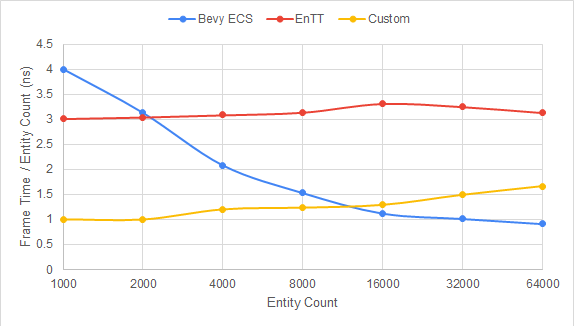
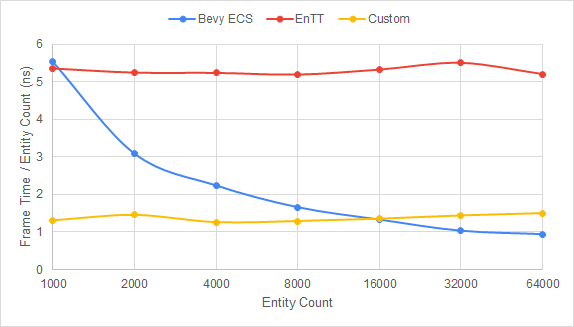
paper - change results to clang benched

diff --git a/papers/IEEE/main.tex b/papers/IEEE/main.tex
@@ -279,7 +279,7 @@ T\kern-.1667em\lower.7ex\hbox{E}\kern-.125emX}}
 
     The custom implementation consistently exhibited the lowest frame times up to 8,000 entities, after which Bevy took over.
     The specialization and compiler optimizations used by the custom implementation allowed it to
-    perform well when compared to EnTT.
+    perform well when compared to EnTT\@.
 
     \begin{figure}
         \centerline{\includegraphics[width=0.4\textwidth]{chart1}}
@@ -290,39 +290,39 @@ T\kern-.1667em\lower.7ex\hbox{E}\kern-.125emX}}
     \begin{table}[htbp]
         \caption{Benchmark~\ref{subsec:entity-iteration} – Statistics}
         \begin{center}
-            \begin{tabular}{|c|c|c|c|c|c|}
+            \begin{tabular}{|c|c|c|c|c|c|c|}
                 \hline
-                \textbf{Entity} & \textbf{ECS} & \multicolumn{4}{|c|}{\textbf{Frame Time (microseconds)}} \\
-                \cline{3-6}
-                \textbf{Count} & \textbf{Framework} & \textbf{Mean} & \textbf{\textit{Std.Dev.}} & \textbf{\textit{Min}} & \textbf{\textit{Max}} \\
+                \textbf{Entity} & \textbf{ECS} & \multicolumn{5}{|c|}{\textbf{Frame Time (microseconds)}} \\
+                \cline{3-7}
+                \textbf{Count} & \textbf{Framework} & \textbf{Mean} & \textbf{Median} & \textbf{Std.Dev.} & \textbf{Min} & \textbf{Max} \\
                 \hline
-                1000           & Bevy               & 3.994         & 1.547                      & 2                     & 23                    \\
-                & EnTT               & 3.013         & 0.113                      & 3                     & 4                     \\
-                & Custom             & 1.009         & 0.130                      & 1                     & 4                     \\
+                1000 & Bevy & 5.527 & 5.950 & 1.393 & 2.300 & 15.80 \\
+                & EnTT & 5.352 & 5.300 & 1.544 & 5.100 & 6.700 \\
+                & Custom & 1.308 & 1.300 & 0.049 & 1.200 & 2.200 \\
                 \hline
-                2000           & Bevy               & 6.254         & 1.514                      & 3                     & 17                    \\
-                & EnTT               & 6.087         & 0.577                      & 6                     & 16                    \\
-                & Custom             & 2.014         & 0.117                      & 2                     & 3                     \\
+                2000 & Bevy & 6.168 & 6.600 & 1.480 & 3.000 & 14.40 \\
+                & EnTT & 10.48 & 10.40 & 0.708 & 10.10 & 25.40 \\
+                & Custom & 2.914 & 2.700 & 0.493 & 2.400 & 8.200 \\
                 \hline
-                4000           & Bevy               & 8.333         & 1.041                      & 5                     & 17                    \\
-                & EnTT               & 12.352        & 3.057                      & 12                    & 24                    \\
-                & Custom             & 4.823         & 1.012                      & 4                     & 27                    \\
+                4000 & Bevy & 8.942 & 9.000 & 0.949 & 6.100 & 15.50 \\
+                & EnTT & 20.93 & 21.00 & 0.522 & 20.30 & 27.90 \\
+                & Custom & 5.029 & 5.000 & 0.265 & 4.700 & 6.600 \\
                 \hline
-                8000           & Bevy               & 12.264        & 2.136                      & 9                     & 38                    \\
-                & EnTT               & 25.120        & 1.471                      & 23                    & 54                    \\
-                & Custom             & 9.912         & 1.266                      & 9                     & 28                    \\
+                8000 & Bevy & 13.26 & 13.50 & 1.571 & 10.00 & 34.20 \\
+                & EnTT & 41.49 & 41.60 & 2.100 & 39.80 & 71.40 \\
+                & Custom & 10.30 & 10.00 & 0.976 & 9.800 & 20.30 \\
                 \hline
-                16000          & Bevy               & 18.002        & 2.766                      & 14                    & 59                    \\
-                & EnTT               & 53.033        & 11.039                     & 49                    & 225                   \\
-                & Custom             & 20.695        & 2.946                      & 19                    & 55                    \\
+                16000 & Bevy & 21.22 & 21.30 & 4.244 & 16.20 & 126.4 \\
+                & EnTT & 85.15 & 84.40 & 0.398 & 80.80 & 146.3 \\
+                & Custom & 21.64 & 20.60 & 3.020 & 19.80 & 42.40 \\
                 \hline
-                32000          & Bevy               & 32.512        & 2.912                      & 26                    & 44                    \\
-                & EnTT               & 104.087       & 9.449                      & 100                   & 220                   \\
-                & Custom             & 47.701        & 6.843                      & 43                    & 87                    \\
+                32000 & Bevy & 32.98 & 31.80 & 7.903 & 27.70 & 256.2 \\
+                & EnTT & 176.2 & 168.8 & 22.31 & 161.0 & 293.3 \\
+                & Custom & 46.13 & 45.20 & 4.258 & 43.70 & 81.50 \\
                 \hline
-                64000          & Bevy               & 58.591        & 4.719                      & 51                    & 88                    \\
-                & EnTT               & 200.677       & 23.302                     & 184                   & 480                   \\
-                & Custom             & 106.292       & 13.066                     & 94                    & 187                   \\
+                64000 & Bevy & 59.88 & 59.05 & 16.11 & 44.70 & 297.1 \\
+                & EnTT & 333.1 & 322.4 & 43.15 & 308.7 & 1178 \\
+                & Custom & 96.29 & 93.00 & 11.68 & 90.40 & 336.6 \\
                 \hline
             \end{tabular}
         \end{center}\label{tab:results-benchmark-1}
@@ -347,44 +347,53 @@ T\kern-.1667em\lower.7ex\hbox{E}\kern-.125emX}}
     \begin{table}[htbp]
         \caption{Benchmark~\ref{subsec:sparse-access} – Statistics}
         \begin{center}
-            \begin{tabular}{|c|c|c|c|c|c|}
+            \begin{tabular}{|c|c|c|c|c|c|c|}
                 \hline
-                \textbf{Sparse} & \textbf{ECS} & \multicolumn{4}{|c|}{\textbf{Frame Time (microseconds)}} \\
-                \cline{3-6}
-                \textbf{Ratio} & \textbf{Framework} & \textbf{Mean} & \textbf{\textit{Std.Dev.}} & \textbf{\textit{Min}} & \textbf{\textit{Max}} \\
+                \textbf{Sparse} & \textbf{ECS} & \multicolumn{5}{|c|}{\textbf{Frame Time (microseconds)}} \\
+                \cline{3-7}
+                \textbf{Ratio} & \textbf{Framework} & \textbf{Mean} & \textbf{Median} & \textbf{Std.Dev.} & \textbf{Min} & \textbf{Max} \\
                 \hline
-                0.90           & Bevy               & 28.845        & 3.830                      & 24                    & 55                    \\
-                & EnTT               & 61.977        & 8.337                      & 58                    & 253                   \\
-                & Custom             & 32.293        & 6.049                      & 29                    & 130                   \\
+                1.00 & Bevy & 34.27 & 36.30 & 4.570 & 27.80 & 60.90 \\
+                & EnTT & 53.27 & 52.70 & 2.811 & 51.30 & 93.40 \\
+                & Custom & 34.56 & 32.80 & 4.845 & 32.50 & 86.70 \\
                 \hline
-                0.75           & Bevy               & 26.963        & 2.453                      & 21                    & 37                    \\
-                & EnTT               & 50.910        & 9.785                      & 47                    & 255                   \\
-                & Custom             & 29.378        & 5.894                      & 26                    & 76                    \\
+                0.90 & Bevy & 31.65 & 33.20 & 3.436 & 25.30 & 51.10 \\
+                & EnTT & 70.31 & 69.80 & 3.157 & 68.10 & 114.9 \\
+                & Custom & 36.56 & 33.10 & 8.706 & 30.90 & 96.30 \\
                 \hline
-                0.50           & Bevy               & 19.676        & 2.164                      & 15                    & 33                    \\
-                & EnTT               & 34.422        & 5.370                      & 32                    & 118                   \\
-                & Custom             & 21.970        & 4.134                      & 20                    & 79                    \\
+                0.75 & Bevy & 26.59 & 28.40 & 3.024 & 21.70 & 46.10 \\
+                & EnTT & 58.77 & 58.40 & 2.036 & 57.60 & 98.90 \\
+                & Custom & 29.03 & 28.30 & 3.262 & 26.70 & 74.10 \\
                 \hline
-                0.40           & Bevy               & 16.914        & 1.967                      & 13                    & 31                    \\
-                & EnTT               & 26.063        & 1.767                      & 25                    & 53                    \\
-                & Custom             & 18.633        & 3.173                      & 17                    & 58                    \\
+                0.50 & Bevy & 20.37 & 21.30 & 1.950 & 16.30 & 33.80 \\
+                & EnTT & 41.08 & 39.90 & 8.495 & 37.50 & 225.9 \\
+                & Custom & 21.92 & 21.30 & 2.543 & 20.30 & 43.80 \\
                 \hline
-                0.30           & Bevy               & 13.631        & 1.741                      & 10                    & 33                    \\
-                & EnTT               & 20.087        & 1.079                      & 19                    & 35                    \\
-                & Custom             & 15.705        & 3.475                      & 14                    & 59                    \\
+                0.40 & Bevy & 17.86 & 18.20 & 1.950 & 16.30 & 33.80 \\
+                & EnTT & 33.29 & 32.90 & 2.107 & 31.60 & 69.30 \\
+                & Custom & 18.40 & 17.70 & 2.954 & 16.70 & 38.60 \\
                 \hline
-                0.20           & Bevy               & 11.244        & 1.597                      & 8                     & 27                    \\
-                & EnTT               & 13.517        & 3.530                      & 13                    & 69                    \\
-                & Custom             & 12.363        & 2.294                      & 11                    & 65                    \\
+                0.30 & Bevy & 14.16 & 15.00 & 2.490 & 11.10 & 51.00 \\
+                & EnTT & 29.18 & 24.80 & 8.725 & 23.00 & 99.20 \\
+                & Custom & 15.12 & 14.50 & 2.733 & 14.10 & 42.40 \\
                 \hline
-                0.10           & Bevy               & 8.211         & 1.489                      & 5                     & 28                    \\
-                & EnTT               & 7.032         & 0.441                      & 6                     & 13                    \\
-                & Custom             & 9.065         & 0.507                      & 9                     & 19                    \\
+                0.20 & Bevy & 11.81 & 11.20 & 2.198 & 7.900 & 35.20 \\
+                & EnTT & 16.49 & 16.40 & 0.721 & 15.90 & 31.40 \\
+                & Custom & 12.16 & 11.90 & 1.222 & 11.70 & 37.30 \\
                 \hline
-                0.05           & Bevy               & 4.977         & 1.353                      & 3                     & 25                    \\
-                & EnTT               & 3.004         & 0.063                      & 3                     & 4                     \\
-                & Custom             & 8.011         & 1.018                      & 7                     & 39                    \\
+                0.10 & Bevy & 8.214 & 7.700 & 2.955 & 4.200 & 41.40 \\
+                & EnTT & 8.909 & 8.800 & 0.694 & 8.400 & 15.90 \\
+                & Custom & 9.731 & 9.600 & 1.463 & 9.200 & 52.80 \\
                 \hline
+                0.05 & Bevy & 5.388 & 5.000 & 1.420 & 2.800 & 13.90 \\
+                & EnTT & 4.082 & 4.000 & 0.227 & 3.900 & 6.400 \\
+                & Custom & 8.176 & 8.100 & 0.396 & 7.900 & 15.80 \\
+                \hline
+                0.00 & Bevy & 3.579 & 3.500 & 0.828 & 1.400 & 8.500 \\
+                & EnTT & 0.020 & 0.000$^{a}$ & 0.040 & 0.000$^{a}$ & 0.100 \\
+                & Custom & 6.583 & 6.600 & 0.274 & 6.400 & 12.30 \\
+                \hline
+                \multicolumn{6}{l}{$^{\mathrm{a}}$Measured time less than used benchmark precision.}
             \end{tabular}
         \end{center}\label{tab:results-benchmark-2}
     \end{table}
@@ -404,41 +413,40 @@ T\kern-.1667em\lower.7ex\hbox{E}\kern-.125emX}}
     \begin{table}[htbp]
         \caption{Benchmark~\ref{subsec:entity-creation-and-destruction} – Statistics}
         \begin{center}
-            \begin{tabular}{|c|c|c|c|c|c|}
+            \begin{tabular}{|c|c|c|c|c|c|c|}
                 \hline
-                \textbf{Entity} & \textbf{ECS} & \multicolumn{4}{|c|}{\textbf{Frame Time (microseconds)}} \\
-                \cline{3-6}
-                \textbf{Rate} & \textbf{Framework} & \textbf{Mean} & \textbf{\textit{Std.Dev.}} & \textbf{\textit{Min}} & \textbf{\textit{Max}} \\
+                \textbf{Entity} & \textbf{ECS} & \multicolumn{5}{|c|}{\textbf{Frame Time (microseconds)}} \\
+                \cline{3-7}
+                \textbf{Rate} & \textbf{Framework} & \textbf{Mean} & \textbf{Median} & \textbf{Std.Dev.} & \textbf{Min} & \textbf{Max} \\
                 \hline
-                32            & Bevy               & 13.683        & 3.027                      & 8                     & 35                    \\
-                & EnTT               & 1.060         & 0.237                      & 1                     & 2                     \\
-                & Custom             & 0.921         & 0.273                      & 0$^{\mathrm{a}}$      & 6                     \\
+                32 & Bevy & 15.61 & 14.70 & 3.280 & 9.800 & 40.80 \\
+                & EnTT & 1.750 & 1.700 & 0.093 & 1.600 & 3.100 \\
+                & Custom & 0.949 & 0.900 & 0.178 & 0.800 & 6.200 \\
                 \hline
-                64            & Bevy               & 19.173        & 5.627                      & 14                    & 103                   \\
-                & EnTT               & 2.005         & 0.071                      & 2                     & 3                     \\
-                & Custom             & 1.032         & 0.243                      & 1                     & 3                     \\
+                64 & Bevy & 21.52 & 22.30 & 3.664 & 13.70 & 69.80 \\
+                & EnTT & 3.248 & 3.200 & 0.180 & 3.100 & 4.700 \\
+                & Custom & 1.608 & 1.600 & 0.079 & 1.500 & 2.900 \\
                 \hline
-                128           & Bevy               & 25.481        & 5.471                      & 19                    & 119                   \\
-                & EnTT               & 4.014         & 0.117                      & 4                     & 5                     \\
-                & Custom             & 3.014         & 0.209                      & 3                     & 9                     \\
+                128 & Bevy & 29.40 & 27.70 & 9.880 & 20.00 & 155.2 \\
+                & EnTT & 6.591 & 6.400 & 1.469 & 6.200 & 40.00 \\
+                & Custom & 2.848 & 2.800 & 0.143 & 2.700 & 5.800 \\
                 \hline
-                256           & Bevy               & 34.781        & 5.593                      & 29                    & 118                   \\
-                & EnTT               & 8.379         & 0.589                      & 8                     & 17                    \\
-                & Custom             & 6.046         & 0.283                      & 6                     & 11                    \\
+                256 & Bevy & 40.97 & 39.20 & 5.685 & 35.40 & 176.8 \\
+                & EnTT & 13.02 & 12.90 & 1.530 & 11.40 & 43.30 \\
+                & Custom & 5.452 & 5.400 & 0.176 & 5.200 & 6.900 \\
                 \hline
-                512           & Bevy               & 54.945        & 7.880                      & 49                    & 166                   \\
-                & EnTT               & 18.194        & 2.069                      & 17                    & 50                    \\
-                & Custom             & 12.081        & 0.610                      & 12                    & 21                    \\
+                512 & Bevy & 66.21 & 62.50 & 7.548 & 59.50 & 125.3 \\
+                & EnTT & 25.79 & 25.60 & 0.762 & 24.90 & 34.90 \\
+                & Custom & 10.81 & 10.60 & 1.308 & 10.30 & 28.70 \\
                 \hline
-                1024          & Bevy               & 93.558        & 10.512                     & 84                    & 285                   \\
-                & EnTT               & 37.315        & 4.249                      & 35                    & 88                    \\
-                & Custom             & 24.181        & 3.256                      & 23                    & 69                    \\
+                1024 & Bevy & 114.1 & 110.3 & 9.538 & 103.8 & 194.1 \\
+                & EnTT & 55.58 & 55.50 & 2.228 & 52.00 & 97.50 \\
+                & Custom & 21.51 & 21.20 & 1.726 & 20.40 & 62.40 \\
                 \hline
-                2048          & Bevy               & 165.043       & 15.253                     & 151                   & 282                   \\
-                & EnTT               & 69.875        & 2.585                      & 66                    & 101                   \\
-                & Custom             & 63.684        & 8.454                      & 46                    & 163                   \\
+                2048 & Bevy & 236.4 & 217.1 & 106.4 & 203.3 & 3000 \\
+                & EnTT & 111.8 & 109.9 & 7.771 & 101.9 & 180.1 \\
+                & Custom & 40.95 & 40.90 & 1.593 & 39.00 & 59.10 \\
                 \hline
-                \multicolumn{6}{l}{$^{\mathrm{a}}$Measured time less than used benchmark precision.}
             \end{tabular}
         \end{center}\label{tab:results-benchmark-3}
     \end{table}
@@ -459,39 +467,39 @@ T\kern-.1667em\lower.7ex\hbox{E}\kern-.125emX}}
     \begin{table}[htbp]
         \caption{Benchmark~\ref{subsec:structural-changes} – Statistics}
         \begin{center}
-            \begin{tabular}{|c|c|c|c|c|c|}
+            \begin{tabular}{|c|c|c|c|c|c|c|}
                 \hline
-                \textbf{Entity} & \textbf{ECS} & \multicolumn{4}{|c|}{\textbf{Frame Time (microseconds)}} \\
-                \cline{3-6}
-                \textbf{Count} & \textbf{Framework} & \textbf{Mean} & \textbf{\textit{Std.Dev.}} & \textbf{\textit{Min}} & \textbf{\textit{Max}} \\
+                \textbf{Entity} & \textbf{ECS} & \multicolumn{5}{|c|}{\textbf{Frame Time (microseconds)}} \\
+                \cline{3-7}
+                \textbf{Count} & \textbf{Framework} & \textbf{Mean} & \textbf{Median} & \textbf{Std.Dev.} & \textbf{Min} & \textbf{Max} \\
                 \hline
-                100            & Bevy               & 82.519        & 9.150                      & 57                    & 200                   \\
-                & EnTT               & 13.731        & 0.854                      & 10                    & 19                    \\
-                & Custom             & 13.989        & 0.566                      & 12                    & 17                    \\
+                100 & Bevy & 90.87 & 86.30 & 25.53 & 60.10 & 582.4 \\
+                & EnTT & 13.67 & 13.60 & 0.785 & 10.70 & 25.10 \\
+                & Custom & 13.18 & 13.20 & 0.565 & 11.40 & 17.80 \\
                 \hline
-                250            & Bevy               & 179.518       & 19.655                     & 135                   & 315                   \\
-                & EnTT               & 34.865        & 3.283                      & 28                    & 70                    \\
-                & Custom             & 38.707        & 4.854                      & 30                    & 78                    \\
+                250 & Bevy & 208.4 & 191.7 & 61.56 & 141.1 & 881.8 \\
+                & EnTT & 41.86 & 37.15 & 9.266 & 26.50 & 103.9 \\
+                & Custom & 33.06 & 33.10 & 1.734 & 27.40 & 52.10 \\
                 \hline
-                500            & Bevy               & 335.878       & 38.078                     & 235                   & 680                   \\
-                & EnTT               & 60.377        & 4.629                      & 48                    & 108                   \\
-                & Custom             & 62.21         & 7.509                      & 48                    & 120                   \\
+                500 & Bevy & 350.4 & 338.6 & 77.19 & 256.6 & 1671 \\
+                & EnTT & 59.51 & 57.90 & 6.402 & 47.00 & 109.6 \\
+                & Custom & 55.94 & 55.80 & 6.278 & 46.50 & 183.0 \\
                 \hline
-                1000           & Bevy               & 580.667       & 58.969                     & 440                   & 1333                  \\
-                & EnTT               & 96.754        & 9.943                      & 77                    & 221                   \\
-                & Custom             & 103.315       & 12.867                     & 85                    & 218                   \\
+                1000 & Bevy & 567.5 & 568.0 & 42.86 & 450.3 & 1255 \\
+                & EnTT & 92.56 & 91.10 & 6.980 & 73.20 & 164.0 \\
+                & Custom & 87.58 & 86.80 & 9.665 & 73.20 & 292.4 \\
                 \hline
-                2000           & Bevy               & 1044.088      & 75.280                     & 811                   & 1836                  \\
-                & EnTT               & 160.129       & 16.238                     & 122                   & 314                   \\
-                & Custom             & 161.302       & 16.706                     & 145                   & 420                   \\
+                2000 & Bevy & 1027 & 1024 & 74.30 & 854.5 & 1919 \\
+                & EnTT & 167.8 & 163.7 & 53.31 & 124.1 & 1620 \\
+                & Custom & 153.5 & 147.6 & 27.94 & 128.6 & 671.6 \\
                 \hline
-                4000           & Bevy               & 2024.916      & 120.372                    & 1656                  & 3230                  \\
-                & EnTT               & 280.599       & 23.471                     & 218                   & 448                   \\
-                & Custom             & 264.531       & 19.182                     & 227                   & 480                   \\
+                4000 & Bevy & 1920 & 1913 & 1020 & 1543 & 2806 \\
+                & EnTT & 287.0 & 285.2 & 33.52 & 203.1 & 529.4 \\
+                & Custom & 244.3 & 242.6 & 31.67 & 199.8 & 1046 \\
                 \hline
-                8000           & Bevy               & 3853.080      & 168.052                    & 3188                  & 4967                  \\
-                & EnTT               & 510.233       & 48.307                     & 395                   & 935                   \\
-                & Custom             & 509.261       & 59.871                     & 396                   & 1298                  \\
+                8000 & Bevy & 3622 & 3595 & 194.2 & 3077 & 4761 \\
+                & EnTT & 527.2 & 531.7 & 55.15 & 382.3 & 1281 \\
+                & Custom & 472.9 & 466.8 & 55.87 & 352.2 & 1270 \\
                 \hline
             \end{tabular}
         \end{center}\label{tab:results-benchmark-4}
